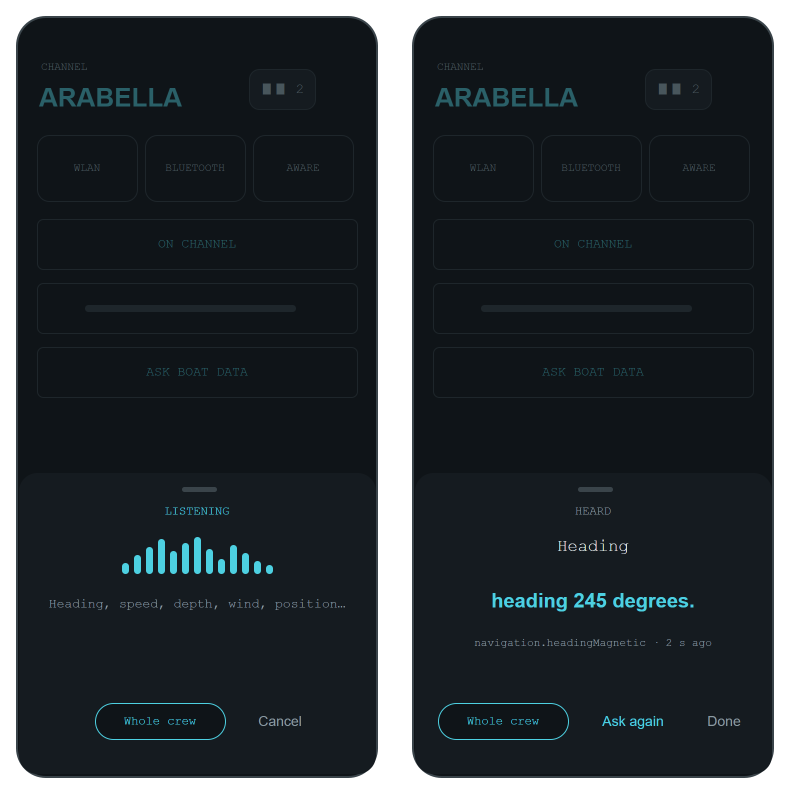
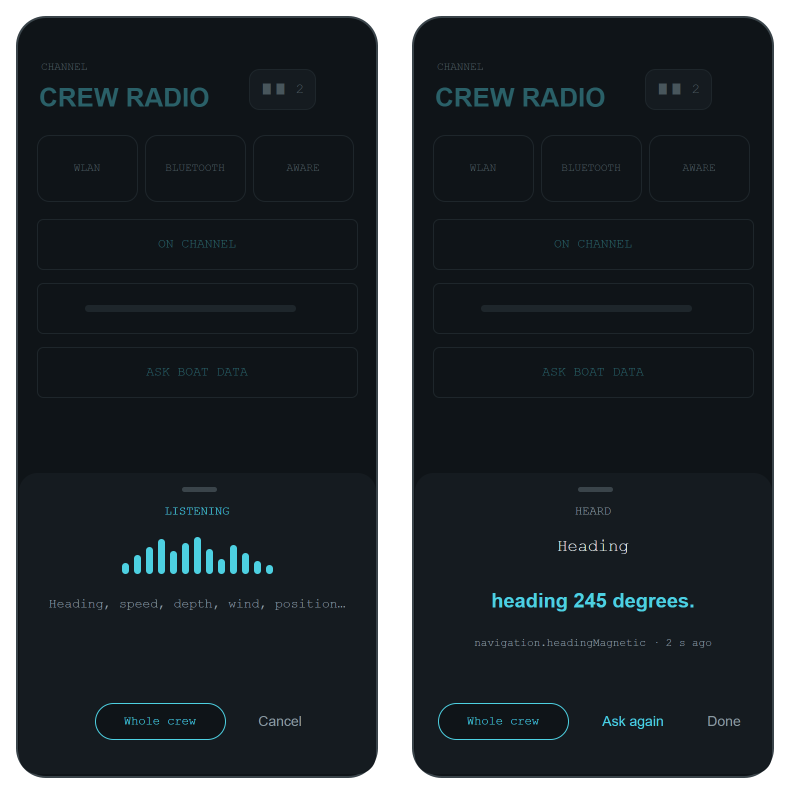
Keep the boat's name out of the repository
The Ask sheet mock-up carried a real boat name, because I read it off a phone
screen while testing and drew what I saw. That is exactly what the rule about
drawing the screens rather than photographing them exists to prevent, and the
other mock-ups have always used CREW RADIO. This one does now too.

The same name was also sitting in the example text the feature shipped with:
the server address hint on the settings screen, a comment about not naming the
ask row after the channel, the wake-word examples in AskIntents, and the
fixtures in AskIntentsTest and SignalKUrlTest. All of them are placeholders,
so they now use Northstar and northstar.local, matching the NORTH STAR the
channel-name setting already suggests. Unit tests and lint pass unchanged: the
wake word is a parameter and the host is only ever compared with itself.

Nothing in the repository names the boat now.

Changed region(s): [[0.0303, 0.0905, 0.2727, 0.1508], [0.6061, 0.0905, 0.7576, 0.1508], [0.5455, 0.0905, 0.5758, 0.1508]]

diff --git a/app/src/test/java/fi/crewradio/ask/SignalKUrlTest.kt b/app/src/test/java/fi/crewradio/ask/SignalKUrlTest.kt
@@ -11,7 +11,7 @@ class SignalKUrlTest {
 
     @Test
     fun aBareHostGetsSignalKsOwnSchemeAndPort() {
-        assertEquals("http://arabella.local:3000", SignalKUrl.normalise("arabella.local"))
+        assertEquals("http://northstar.local:3000", SignalKUrl.normalise("northstar.local"))
         assertEquals("http://192.168.1.9:3000", SignalKUrl.normalise("192.168.1.9"))
     }
 
@@ -28,7 +28,7 @@ class SignalKUrlTest {
             "http://192.168.1.9:3000",
             SignalKUrl.normalise("http://192.168.1.9:3000/admin/#/dashboard"),
         )
-        assertEquals("http://arabella.local:3000", SignalKUrl.normalise("  arabella.local/  "))
+        assertEquals("http://northstar.local:3000", SignalKUrl.normalise("  northstar.local/  "))
     }
 
     @Test
@@ -45,23 +45,23 @@ class SignalKUrlTest {
         assertNull(SignalKUrl.normalise("http://"))
         assertNull(SignalKUrl.normalise("two words"))
         assertFalse(SignalKUrl.valid("ftp://boat"))
-        assertTrue(SignalKUrl.valid("arabella.local"))
+        assertTrue(SignalKUrl.valid("northstar.local"))
     }
 
     @Test
     fun theSettingsRowShowsHostAndPortWithoutTheScheme() {
-        assertEquals("arabella.local:3000", SignalKUrl.describe("arabella.local"))
+        assertEquals("northstar.local:3000", SignalKUrl.describe("northstar.local"))
         assertEquals("", SignalKUrl.describe("nonsense://x"))
     }
 
     @Test
     fun theEndpointsAreBuiltOffTheBase() {
-        val base = SignalKUrl.normalise("arabella.local")!!
+        val base = SignalKUrl.normalise("northstar.local")!!
         assertEquals(
-            "http://arabella.local:3000/signalk/v1/api/vessels/self/navigation",
+            "http://northstar.local:3000/signalk/v1/api/vessels/self/navigation",
             SignalKUrl.selfBranch(base, "navigation"),
         )
-        assertEquals("http://arabella.local:3000/signalk/v1/access/requests", SignalKUrl.accessRequests(base))
-        assertEquals("http://arabella.local:3000/plugins/signalk-crewradio/say", SignalKUrl.pluginSay(base))
+        assertEquals("http://northstar.local:3000/signalk/v1/access/requests", SignalKUrl.accessRequests(base))
+        assertEquals("http://northstar.local:3000/plugins/signalk-crewradio/say", SignalKUrl.pluginSay(base))
     }
 }

diff --git a/app/src/test/java/fi/crewradio/ask/AskIntentsTest.kt b/app/src/test/java/fi/crewradio/ask/AskIntentsTest.kt
@@ -30,12 +30,12 @@ class AskIntentsTest {
         )
     )
 
-    private fun ids(vararg hypotheses: String, wake: String? = "Arabella") =
+    private fun ids(vararg hypotheses: String, wake: String? = "Northstar") =
         intents.match(hypotheses.toList(), wake).quantities.map { it.id }
 
     @Test
     fun answersTwoThingsInTheOrderTheyWereAsked() {
-        assertEquals(listOf("heading", "speed"), ids("Arabella, what is heading and speed now?"))
+        assertEquals(listOf("heading", "speed"), ids("Northstar, what is heading and speed now?"))
         assertEquals(listOf("speed", "heading"), ids("speed and heading"))
     }
 
@@ -49,8 +49,8 @@ class AskIntentsTest {
 
     @Test
     fun theWakeWordIsDroppedWhereverItFalls() {
-        assertEquals(listOf("depth"), ids("Arabella depth"))
-        assertEquals(listOf("depth"), ids("depth please Arabella"))
+        assertEquals(listOf("depth"), ids("Northstar depth"))
+        assertEquals(listOf("depth"), ids("depth please Northstar"))
         // Dictation rarely knows a boat's name, so it is matched loosely.
         assertEquals(listOf("depth"), ids("Arabela depth"))
         assertEquals(listOf("depth"), ids("Annabella depth"))
@@ -69,14 +69,14 @@ class AskIntentsTest {
     fun everyHypothesisIsTriedNotJustTheBestOne() {
         // The recogniser's best guess is two edits out, so nothing in it matches; the second
         // hypothesis is the one the crew actually said.
-        val match = intents.match(listOf("speak over ground", "speed over ground"), "Arabella")
+        val match = intents.match(listOf("speak over ground", "speed over ground"), "Northstar")
         assertEquals(listOf("speed"), match.quantities.map { it.id })
         assertEquals("speed over ground", match.transcript)
     }
 
     @Test
     fun nothingRecognisedKeepsTheFirstHypothesisToShow() {
-        val match = intents.match(listOf("did you see the otter", "did you see the water"), "Arabella")
+        val match = intents.match(listOf("did you see the otter", "did you see the water"), "Northstar")
         assertTrue(match.quantities.isEmpty())
         assertEquals("did you see the otter", match.transcript)
     }

diff --git a/app/src/main/java/fi/crewradio/ask/AskIntents.kt b/app/src/main/java/fi/crewradio/ask/AskIntents.kt
@@ -40,7 +40,7 @@ class AskIntents(triggers: List<Trigger>) {
     /**
      * The quantities asked for, in the order they were spoken, from the first hypothesis that
      * yields any. [wakeWord] (the boat's name) is dropped wherever it appears, so both
-     * "Arabella, depth" and "depth please Arabella" work.
+     * "Northstar, depth" and "depth please Northstar" work.
      */
     fun match(hypotheses: List<String>, wakeWord: String? = null): Match {
         if (hypotheses.isEmpty()) return Match(emptyList(), "")

diff --git a/app/src/main/java/fi/crewradio/ask/SignalKUrl.kt b/app/src/main/java/fi/crewradio/ask/SignalKUrl.kt
@@ -6,7 +6,7 @@ import java.net.URISyntaxException
 /**
  * What the crew may type as the boat's Signal K server, and what it means.
  *
- * They will type `arabella.local`, or `192.168.1.9`, or paste
+ * They will type `northstar.local`, or `192.168.1.9`, or paste
  * `http://192.168.1.9:3000/admin/#/dashboard` out of a browser. All three mean the same server,
  * and none of them is a base URL. Normalising is pure, so the rules are unit-tested and the
  * settings screen can refuse a bad one before it is ever dialled.

diff --git a/docs/diagrams/make_diagrams.py b/docs/diagrams/make_diagrams.py
@@ -249,7 +249,7 @@ def ask_sheet(p, x, y, state):
     dim_text, dim_cyan, dim_line = "#48565C", "#2A6068", "#1E262B"
     n = [frame(p + "f", x, y)]
     n.append(txt(p + "h1", "CHANNEL", x + 24, y + 40, 200, 20, 11, dim_text, spacing=2))
-    n.append(txt(p + "h2", "ARABELLA", x + 22, y + 60, 220, 40, 26, dim_cyan, bold=True, mono=False))
+    n.append(txt(p + "h2", "CREW RADIO", x + 22, y + 60, 220, 40, 26, dim_cyan, bold=True, mono=False))
     n.append(rect(p + "hc", x + 232, y + 52, 66, 40, arc=25, label="▮▮ 2", color=dim_text, size=14, stroke=dim_line))
     for i, name in enumerate(("WLAN", "BLUETOOTH", "AWARE")):
         n.append(rect(p + f"t{i}", x + 20 + i * 108, y + 118, 100, 66, fill=BG, stroke=dim_line, arc=18,
